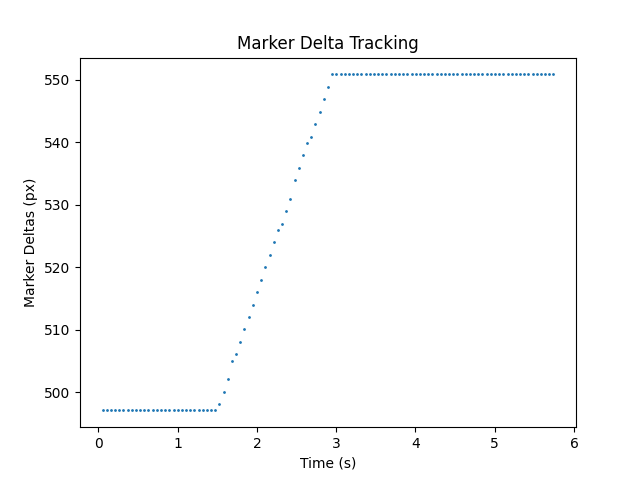
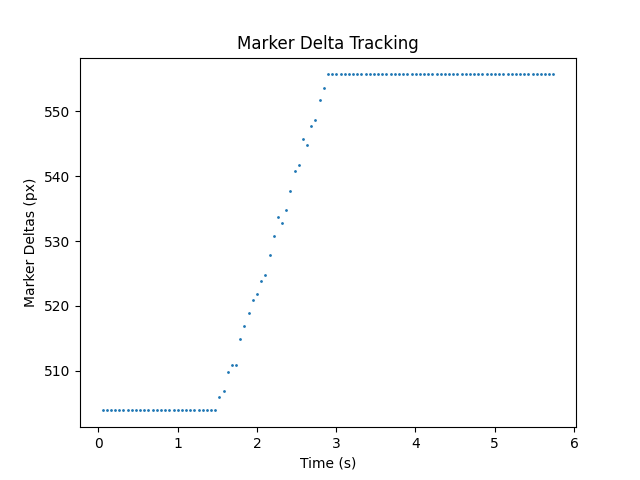
bug fixes and res scaling

diff --git a/main.py b/main.py
@@ -338,7 +338,7 @@ def mouse_callback(event, x, y, flags, params):
         cv2.circle(cur_frame, (scaled_x, scaled_y), int(radius*scale_factor), (255, 255, 0), 2) # draw circle where clicked
 
     cv2.imshow('Select Markers', cur_frame)
-    cv2.moveWindow('Your Window', 50, 50)
+    cv2.moveWindow('Select Markers', 50, 50)
 
 
 def select_markers(cap, bbox_size, frame_start):
@@ -354,7 +354,7 @@ def select_markers(cap, bbox_size, frame_start):
     cap.set(cv2.CAP_PROP_POS_FRAMES, frame_start)
     ret, first_frame = cap.read() # get first frame for selection
     cv2.imshow('Select Markers', first_frame) # show first frame
-    cv2.moveWindow('Your Window', 50, 50)
+    cv2.moveWindow('Select Markers', 50, 50)
 
     mouse_params = {"first_frame": first_frame.copy(), "marker_positions": [], 'bbox_size': bbox_size}
     cv2.setMouseCallback('Select Markers', mouse_callback, mouse_params) # set mouse callback function defn above
@@ -398,9 +398,13 @@ def track_markers(marker_positions, first_frame, frame_start, frame_end, cap, bb
             trackers.append(cv2.TrackerCSRT_create())
 
     # init trackers
+    scaled_first_frame, scale_factor = scale_frame(first_frame)
     for i, mark_pos in enumerate(marker_positions):
-        bbox = (mark_pos[0][0] - bbox_size//2, mark_pos[0][1] - bbox_size//2, bbox_size, bbox_size)
-        trackers[i].init(first_frame, bbox)
+        bbox = (int((mark_pos[0][0] - bbox_size // 2) * scale_factor),
+                int((mark_pos[0][1] - bbox_size // 2) * scale_factor),
+                int(bbox_size * scale_factor),
+                int(bbox_size * scale_factor))
+        trackers[i].init(scaled_first_frame, bbox)
 
     # init tracking data dict
     tracker_data = {'Frame': [], 'Time(s)': [], 'Tracker': [], 'x (px)': [], 'y (px)': []}
@@ -411,33 +415,33 @@ def track_markers(marker_positions, first_frame, frame_start, frame_end, cap, bb
         ret, frame = cap.read()
         frame_num += 1
         if not ret:
-            break # break when frame read unsuccessful (end of video or error)
-        
+            break  # break when frame read unsuccessful (end of video or error)
+
+        scaled_frame, scale_factor = scale_frame(frame)  # Use the scale_factor obtained from the current frame scaling
+
         # updating trackers and saving location
         for i, tracker in enumerate(trackers):
-            success, bbox = tracker.update(frame)
+            success, bbox = tracker.update(scaled_frame)
 
-            if success: # get coords of marker on successful frame update
-                x_bbox, y_bbox, w_bbox, h_bbox = [int(coord) for coord in bbox] # get coords of bbox
-                marker_center = (x_bbox + w_bbox // 2, y_bbox + h_bbox // 2) # get center of bbox
-                
-                # record tracker locations
+            if success:  # get coords of marker on successful frame update
+                x_bbox, y_bbox, w_bbox, h_bbox = [int(coord) for coord in bbox]  # get coords of bbox in the scaled frame
+                marker_center = (x_bbox + w_bbox // 2, y_bbox + h_bbox // 2)  # get center of bbox
+
+                # record tracker locations using original resolution
                 tracker_data['Frame'].append(frame_num)
                 tracker_data['Time(s)'].append(np.float32(frame_num / cap.get(5)))
-                tracker_data['Tracker'].append(i+1)
-                tracker_data['x (px)'].append(marker_center[0])
-                tracker_data['y (px)'].append(marker_center[1])
-                cv2.rectangle(frame, (x_bbox, y_bbox), (x_bbox + w_bbox, y_bbox + h_bbox), (0, 255, 0), 2) # update tracker rectangle
-            
-        cv2.imshow("Tracking...", frame) # show updated frame tracking
+                tracker_data['Tracker'].append(i + 1)
+                tracker_data['x (px)'].append(int((marker_center[0] / scale_factor)))  # scale back to the original frame resolution
+                tracker_data['y (px)'].append(int((marker_center[1] / scale_factor)))
+                cv2.rectangle(scaled_frame, (x_bbox, y_bbox), (x_bbox + w_bbox, y_bbox + h_bbox), (0, 255, 0), 2)  # update tracker rectangle
 
-        if cv2.waitKey(1) == 27 or frame_num == frame_end-frame_start: # cut tracking loop short if ESC hit
+        cv2.imshow("Tracking...", scaled_frame)  # show updated frame tracking
+
+        if cv2.waitKey(1) == 27 or frame_num == frame_end - frame_start:  # cut tracking loop short if ESC hit
             break
-
-    
     dist_df = pd.DataFrame(tracker_data)
     dist_df.set_index('Frame', inplace=True)
-    dist_df.to_csv("../output/Tracking_Output.csv")
+    dist_df.to_csv("output/Tracking_Output.csv")
 
     cap.release()
     cv2.destroyAllWindows()
@@ -453,8 +457,8 @@ def necking_point(cap, frame_start, frame_end, percent_crop_left=0., percent_cro
 
     Args:
         cap (cv2.VideoCapture): loaded video file for selecting markers of
-        percent_crop_left (float, optional): percentage of pixels to remove from consideration from left side of frame of necking pt detection. Defaults to 0..
-        percent_crop_right (_type_, optional): percentage of pixels to remove from consideration from right side of frame of necking pt detection. Defaults to 0..
+        percent_crop_left (float, optional): percentage of pixels to remove from consideration from the left side of the frame of necking pt detection. Defaults to 0..
+        percent_crop_right (_type_, optional): percentage of pixels to remove from consideration from the right side of the frame of necking pt detection. Defaults to 0..
         binarize_intensity_thresh (int, optional): threshold pixel intensity value for frame binarization. Defaults to 120.
         x_interval (int, optional): interval of horizontal pixels to draw vertical blue lines for visualization purposes. Defaults to 50.
     """    
@@ -462,72 +466,73 @@ def necking_point(cap, frame_start, frame_end, percent_crop_left=0., percent_cro
     dist_data = {'Frame': [], 'Time(s)': [], 'x at necking point (px)': [], 'y necking distance (px)': []}
     percent_crop_left *= 0.01
     percent_crop_right *= 0.01
-    print(percent_crop_left)
 
-    while True: # read frame by frame until end of video
+    while True:  # read frame by frame until the end of the video
         ret, frame = cap.read()
-        cap.set(cv2.CAP_PROP_POS_FRAMES, frame_start+frame_num)
+        cap.set(cv2.CAP_PROP_POS_FRAMES, frame_start + frame_num)
         frame_num += 1
-        #time.sleep(0.5)
+
         if not ret:
             break
 
-        gray_frame = cv2.cvtColor(frame, cv2.COLOR_BGR2GRAY) # frame already gray, but not read as such
-        _, binary_frame = cv2.threshold(gray_frame, binarize_intensity_thresh, 1,cv2.THRESH_BINARY) # threshold to binarize img
-        
+        scaled_frame, scale_factor = scale_frame(frame)  # scale the frame
+
+        gray_frame = cv2.cvtColor(scaled_frame, cv2.COLOR_BGR2GRAY)  # convert frame to gray
+        _, binary_frame = cv2.threshold(gray_frame, binarize_intensity_thresh, 255, cv2.THRESH_BINARY)  # threshold to binarize image
+
         # error checking for appropriate binarization threshold
-        if np.all(binary_frame == 1):
+        if np.all(binary_frame == 255):
             msg = "Binarization threshold too low,\nfound no pixels below the threshold.\n\nPlease adjust the threshold (default is 120)"
             error_popup(msg)
         if np.all(binary_frame == 0):
             msg = "Binarization threshold too high,\nfound no pixels above the threshold.\n\nPlease adjust the threshold (default is 120)"
-            error_popup(msg)   
+            error_popup(msg)
 
-        edges = cv2.Canny(binary_frame, 0, 2) # edge detection, nums are gradient thresholds
+        edges = cv2.Canny(binary_frame, 0, 2)  # edge detection, nums are gradient thresholds
 
         x_samples = []
         y_distances = []
         y_line_values = []
 
-        frame_draw = frame.copy() 
+        frame_draw = scaled_frame.copy()
         frame_draw[edges > 0] = [0, 255, 0]  # draw edges
 
         # remove x% of edges from consideration of detection
         horizontal_pixels_left = 0
-        horizontal_pixels_right = frame.shape[1]
+        horizontal_pixels_right = scaled_frame.shape[1]
         if percent_crop_left != 0.:
-            left_pixels_removed = int(percent_crop_left*frame.shape[1])
+            left_pixels_removed = int(percent_crop_left * scaled_frame.shape[1])
             horizontal_pixels_left = max(0, left_pixels_removed)
         if percent_crop_right != 0.:
-            right_pixels_removed = int(percent_crop_right*frame.shape[1])
-            horizontal_pixels_right = min(frame.shape[1], frame.shape[1] - right_pixels_removed)
+            right_pixels_removed = int(percent_crop_right * scaled_frame.shape[1])
+            horizontal_pixels_right = min(scaled_frame.shape[1], scaled_frame.shape[1] - right_pixels_removed)
 
         for x in range(horizontal_pixels_left, horizontal_pixels_right):
-            edge_pixels = np.nonzero(edges[:,x])[0] # find y coord of edge pixels in cur column
+            edge_pixels = np.nonzero(edges[:, x])[0]  # find y coord of edge pixels in cur column
 
-            if edge_pixels.size > 0: # if edge pixels in cur column, 
-                dist = np.abs(edge_pixels[0] - edge_pixels[-1]) # find distance of top and bottom edges
+            if edge_pixels.size > 0:  # if edge pixels in cur column,
+                dist = np.abs(edge_pixels[0] - edge_pixels[-1])  # find distance of top and bottom edges
                 x_samples.append(x)
                 y_line_values.append((edge_pixels[0], edge_pixels[-1]))
                 y_distances.append(dist)
 
-                if x % x_interval == 0: # draw visualization lines at every x_interval pixels
+                if x % x_interval == 0:  # draw visualization lines at every x_interval pixels
                     # draw vertical lines connecting edges for visualization
                     cv2.line(frame_draw, (x, edge_pixels[0]), (x, edge_pixels[-1]), (200, 0, 0), 1)  
 
         # find index of smallest distance
-        # multiple mins occur in typically close together, for now just pick middle of min occurences
+        # multiple mins occur in typically close together, for now just pick middle of min occurrences
         necking_distance = np.min(y_distances)
-        necking_pt_indices = np.where(y_distances==necking_distance)[0]
+        necking_pt_indices = np.where(y_distances == necking_distance)[0]
         necking_pt_ind = int(np.median(necking_pt_indices))
-        #print(y_distances[necking_pt_ind], y_distances)
-        cv2.line(frame_draw, (x_samples[necking_pt_ind], y_line_values[necking_pt_ind][0]), (x_samples[necking_pt_ind], y_line_values[necking_pt_ind][1]), (0,0,255), 2)     
 
-        # record and save data
+        # record and save data using original resolution
         dist_data['Frame'].append(frame_num)
         dist_data['Time(s)'].append(np.float32(frame_num / cap.get(5)))
-        dist_data['x at necking point (px)'].append(x_samples[necking_pt_ind])
+        dist_data['x at necking point (px)'].append(int((x_samples[necking_pt_ind] / scale_factor)))
         dist_data['y necking distance (px)'].append(necking_distance)
+
+        cv2.line(frame_draw, (x_samples[necking_pt_ind], y_line_values[necking_pt_ind][0]), (x_samples[necking_pt_ind], y_line_values[necking_pt_ind][1]), (0, 0, 255), 2)     
 
         cv2.imshow('Necking Point Visualization', frame_draw)
         if cv2.waitKey(1) == 27 or frame_end == frame_num+frame_start:
@@ -535,7 +540,7 @@ def necking_point(cap, frame_start, frame_end, percent_crop_left=0., percent_cro
 
     dist_df = pd.DataFrame(dist_data)
     dist_df.set_index('Frame', inplace=True)
-    dist_df.to_csv("../output/Necking_Point_Output.csv")
+    dist_df.to_csv("output/Necking_Point_Output.csv")
 
     cap.release()
     cv2.destroyAllWindows()

diff --git a/analysis.py b/analysis.py
@@ -92,7 +92,7 @@ def analyze_marker_deltas():
     }
 
     fig, ax = plot_data(time, marker_deltas, plot_args)
-    fig.savefig("../figures/marker_deltas.png")
+    fig.savefig("figures/marker_deltas.png")
     print("Done")
 
 
@@ -117,7 +117,7 @@ def analyze_necking_point():
     }
 
     fig, ax = plot_data(time, necking_pt_x, plot_args)
-    fig.savefig("../figures/necking_point_location.png")
+    fig.savefig("figures/necking_point_location.png")
 
     print("Done")
 

diff --git a/CHANGELOG.md b/CHANGELOG.md
@@ -8,6 +8,7 @@
 
 ## TODO
 - gaussian blur before frame binarization?
+- add tiff to file selection
 
 # Changelog
 
@@ -26,6 +27,9 @@
 - updated all first frame displays to move window to top left so it doesn't need to be moved since some is usually off screen
 - frame selections now have a label to indicate selected frames in main ui
 - indicators also in frame selections window
+- went back to old file structure (scripts in root dir)
+- fixed bug when moving window
+- all video/img windows scale to 90% of monitor resolution, but when saving data original resolution values used
 
 2/15
 - updated file structure
